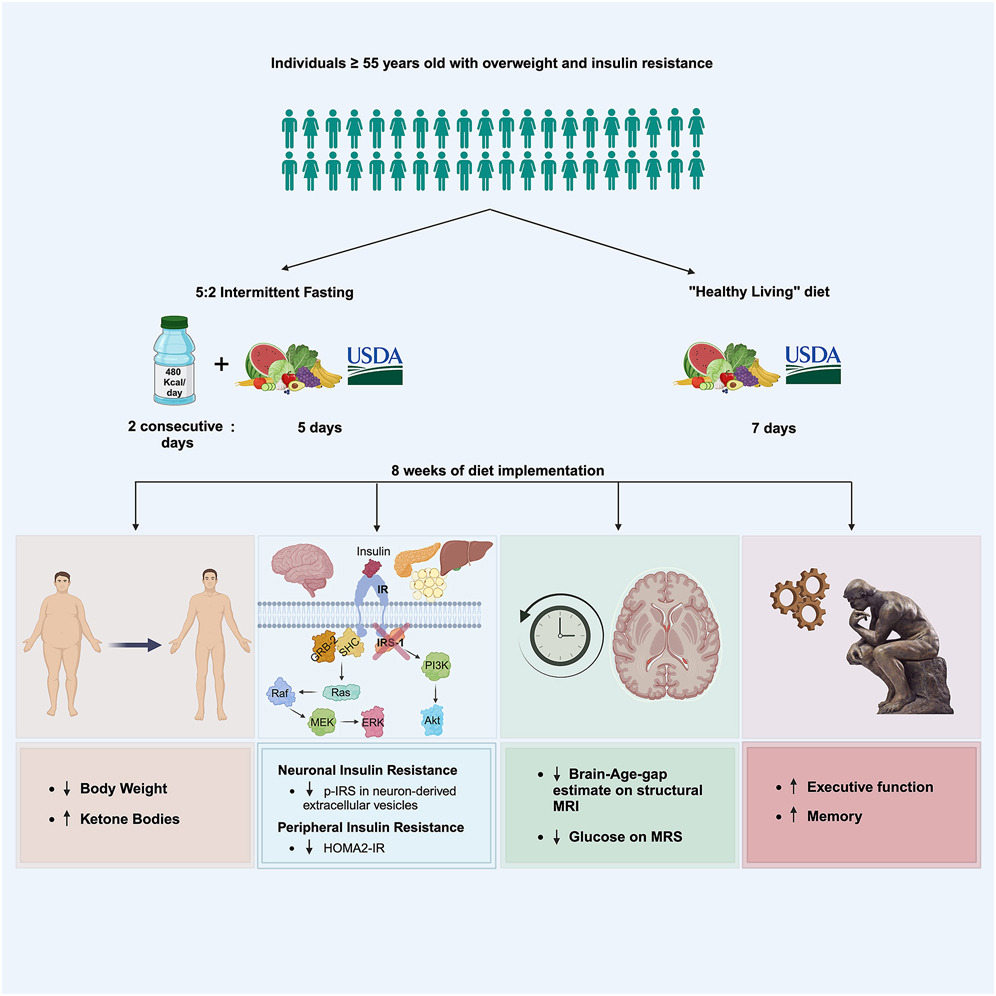
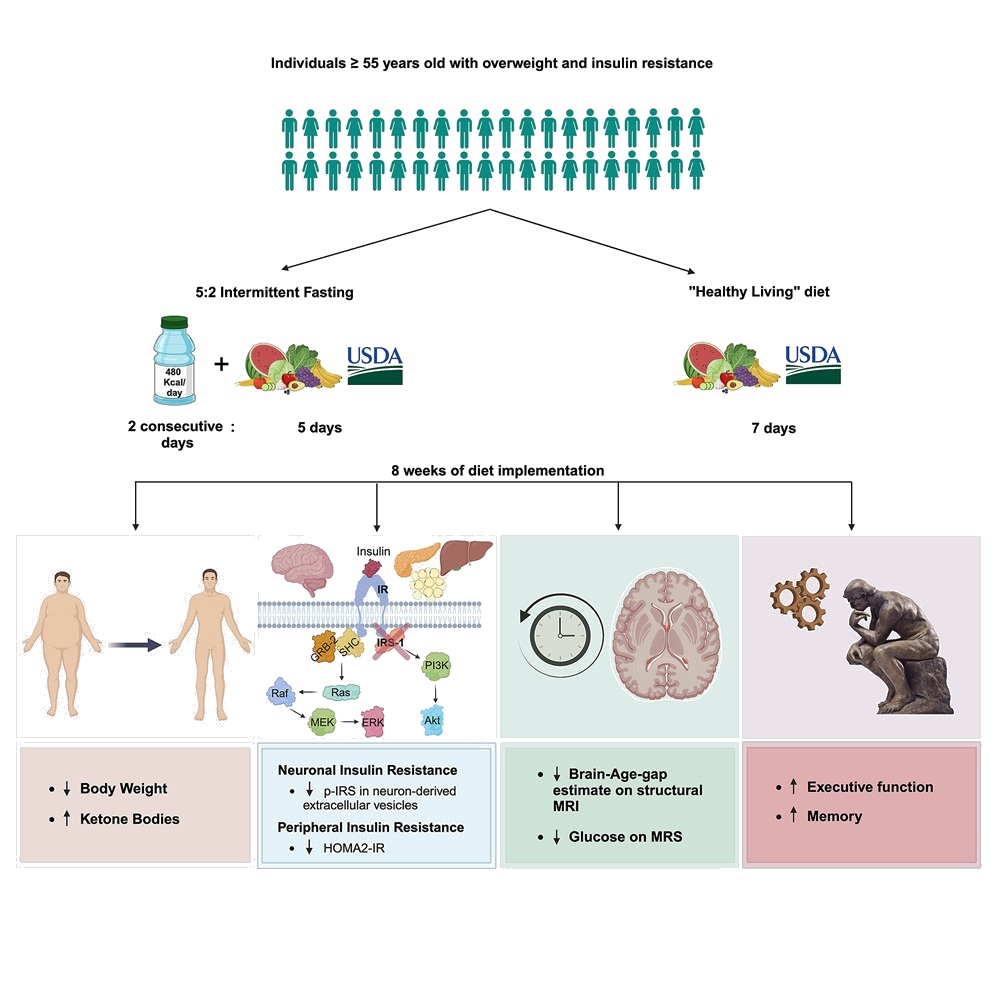
Updates to publications
Separated publications to subpages for papers and abstracts for conferences.

diff --git a/_pages/publications.md b/_pages/publications.md
@@ -19,6 +19,14 @@ nav_order: 3
 Our papers in reverse-chronological order. As of {{ "now" | date: '%B %d, %Y' }}, our academic work received {{ site.data.gscholar.total_citations }} citations by the research community. Please find most up-to-date citation metrics via <a href="https://scholar.google.com/citations?user=AREhBXYAAAAJ&hl=en">Google Scholar</a>.
 
 
-{% bibliography --file papers.bib --query @*[conference_abstract!=true && supervised!=true && ongoing_project!=true]* %}
+{% bibliography --file papers.bib --query @*[conference_abstract!=true && supervised!=true && ongoing_project!=true && book_chapter!=true && thesis!=true]* %}
+
+<h2 class="year">Book Chapters</h2>
+
+{% bibliography --file papers.bib --query @*[book_chapter=true]* %}
+
+<h2 class="year">Theses</h2>
+
+{% bibliography --file papers.bib --query @*[thesis=true]* %}
 
 </div>
